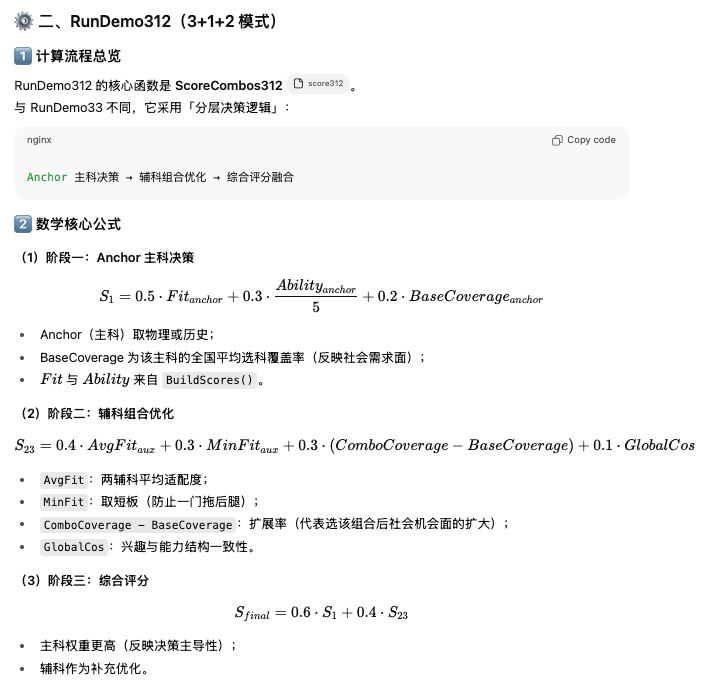
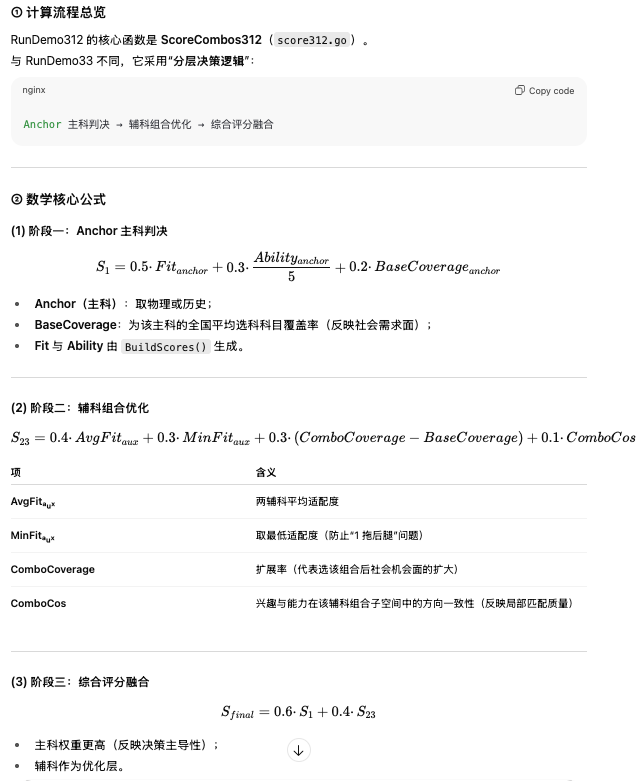
refactor algorithm

diff --git a/server/test2/score312.go b/server/test2/score312.go
@@ -40,7 +40,7 @@ AnchorBaseCoverage(anchor)：该主干学科的基线覆盖率（来自AnchorBas
 
 则：
 
-S23 = auxW_AvgFit * avgFit + auxW_MinFit * minFit + auxW_Expansion * expansion + auxW_GlobalCos * globalCos
+S23 = auxW_AvgFit * avgFit + auxW_MinFit * minFit + auxW_Expansion * expansion + auxW_CombosCos * globalCos
 
 阶段三：综合评分（Sfinal）
 Sfinal = lambda1 * S1 + lambda2 * S23
@@ -61,7 +61,7 @@ auxW_MinFit（辅科最小兴趣匹配度）：0.3
 
 auxW_Expansion（扩展覆盖率）：0.3
 
-auxW_GlobalCos（全局余弦相似度）：0.1
+auxW_CombosCos（全局余弦相似度）：0.1
 
 阶段三权重：
 
@@ -108,7 +108,7 @@ var (
 
 // 阶段二权重（辅科组合）
 var (
-	auxW_AvgFit, auxW_MinFit, auxW_Expansion, auxW_GlobalCos = 0.4, 0.3, 0.3, 0.1
+	auxW_AvgFit, auxW_MinFit, auxW_Expansion, auxW_CombosCos = 0.45, 0.25, 0.2, 0.2
 )
 
 // 阶段三权重（综合）
@@ -120,15 +120,15 @@ var (
 // =============================
 // 核心算法逻辑
 // =============================
-func ScoreCombos312(scores []SubjectScores, globalCos float64) *Mode312Section {
+func ScoreCombos312(scores []SubjectScores) *Mode312Section {
 	m := map[string]SubjectScores{}
 	for _, s := range scores {
 		m[s.Subject] = s
 	}
 
 	// 生成两个固定方向的 Anchor
-	anchorPHY := buildAnchor312(SubjectPHY, m, globalCos)
-	anchorHIS := buildAnchor312(SubjectHIS, m, globalCos)
+	anchorPHY := buildAnchor312(SubjectPHY, m)
+	anchorHIS := buildAnchor312(SubjectHIS, m)
 
 	return &Mode312Section{
 		AnchorPHY: anchorPHY,
@@ -140,7 +140,7 @@ func ScoreCombos312(scores []SubjectScores, globalCos float64) *Mode312Section {
 // --------------------------------------
 // 按主干方向（PHY/HIS）计算阶段一与阶段二结果
 // --------------------------------------
-func buildAnchor312(anchor string, m map[string]SubjectScores, globalCos float64) AnchorCoreData {
+func buildAnchor312(anchor string, m map[string]SubjectScores) AnchorCoreData {
 	// 阶段一计算
 	fit := m[anchor].Fit
 	abNorm := m[anchor].A / 5.0
@@ -178,13 +178,14 @@ func buildAnchor312(anchor string, m map[string]SubjectScores, globalCos float64
 			minFit := math.Min(m[s2].Fit, m[s3].Fit)
 			expansion := math.Max(0, cov-baseCov)
 
+			comboCos := calcComboCos([]SubjectScores{m[anchor], m[s2], m[s3]})
 			// 阶段二计算
 			termAvgFit := auxW_AvgFit * avgFit
 			termMinFit := auxW_MinFit * minFit
 			termExpansion := auxW_Expansion * expansion
-			termGlobalCos := auxW_GlobalCos * globalCos
+			termCombosCos := auxW_CombosCos * comboCos
 
-			S23 := termAvgFit + termMinFit + termExpansion + termGlobalCos
+			S23 := termAvgFit + termMinFit + termExpansion + termCombosCos
 
 			// 阶段三计算
 			SFinal := lambda1*S1 + lambda2*S23
@@ -198,10 +199,11 @@ func buildAnchor312(anchor string, m map[string]SubjectScores, globalCos float64
 				AvgFit:        round3(avgFit),
 				MinFit:        round3(minFit),
 				Expansion:     round3(expansion),
+				ComboCos:      round3(comboCos),
 				TermAvgFit:    round3(termAvgFit),
 				TermMinFit:    round3(termMinFit),
 				TermExpansion: round3(termExpansion),
-				TermGlobalCos: round3(termGlobalCos),
+				TermCombosCos: round3(termCombosCos),
 				S23:           round3(S23),
 			})
 		}
@@ -226,18 +228,18 @@ func buildAnchor312(anchor string, m map[string]SubjectScores, globalCos float64
 
 func RunDemo312(riasecAnswers []RIASECAnswer, ascAnswers []ASCAnswer, alpha, beta, gamma float64) *ParamForAIPrompt {
 	if alpha == 0 && beta == 0 && gamma == 0 {
-		alpha, beta, gamma = 0.4, 0.4, 0.2
+		alpha, beta, gamma = 0.5, 0.2, 0.3
 	}
 
 	scores, result := BuildScores(riasecAnswers, ascAnswers, Wfinal, DimCalib, alpha, beta, gamma)
 
 	var paramForPrompt ParamForAIPrompt
 	paramForPrompt.Common = result.Common
-	paramForPrompt.Mode312 = ScoreCombos312(scores, result.Common.GlobalCosine)
+	paramForPrompt.Mode312 = ScoreCombos312(scores)
 
 	content, _ := json.MarshalIndent(&paramForPrompt, "", "  ")
 	ts := time.Now().Format("20060102_150405")
-	filename := fmt.Sprintf("report_param_%s_%s.json", "3+1+2", ts) // 增加了模块名
+	filename := fmt.Sprintf("report_param_%s_%s.json", "3+1+2", ts)
 	_ = os.WriteFile(filename, content, 0644)
 
 	fmt.Printf("Radar Visualization:\n%+v\n", result.Radar)

diff --git a/server/test2/score33.go b/server/test2/score33.go
@@ -61,9 +61,9 @@ type Weights struct{ W1, W2, W3, W4, W5 float64 }
 
 // ScoreCombos33
 // ------------------------
-// 修正版：组合打分逻辑
+// 组合打分逻辑
 // ------------------------
-func ScoreCombos33(scores []SubjectScores, globalCos float64, w Weights) *Mode33Section {
+func ScoreCombos33(scores []SubjectScores, w Weights) *Mode33Section {
 	m := map[string]SubjectScores{}
 	for _, s := range scores {
 		m[s.Subject] = s
@@ -78,24 +78,30 @@ func ScoreCombos33(scores []SubjectScores, globalCos float64, w Weights) *Mode33
 		}
 		s1, s2, s3 := subjs[0], subjs[1], subjs[2]
 
-		// 计算平均匹配度
-		avgFit := (m[s1].Fit + m[s2].Fit + m[s3].Fit) / 3.0
+		// 获取三科的 SubjectScores
+		sc1, sc2, sc3 := m[s1], m[s2], m[s3]
+
+		// 平均匹配度
+		avgFit := (sc1.Fit + sc2.Fit + sc3.Fit) / 3.0
 
 		// 计算最低能力
 		minA := math.Min(m[s1].A, math.Min(m[s2].A, m[s3].A))
 
 		// 稀有性值
-		rarity := RarityValue(comboKey) // 从组合映射表获取 (0,5,12)
+		rarity := RarityValue(comboKey)
 
 		// 风险惩罚
 		risk := 0.0
-		if minA < 3 {
-			risk = 0.2
+		if minA < 2.8 {
+			risk = 0.45
 		}
+
+		comboCos := calcComboCos([]SubjectScores{sc1, sc2, sc3})
+
 		// 计算组合最终分
 		score := w.W1*avgFit -
 			w.W2*rarity/10.0 +
-			w.W3*globalCos +
+			w.W3*comboCos +
 			w.W4*minA/5.0 -
 			w.W5*risk
 
@@ -105,6 +111,7 @@ func ScoreCombos33(scores []SubjectScores, globalCos float64, w Weights) *Mode33
 			MinAbility:  round3(minA),
 			Rarity:      round3(rarity), // 虽是离散值，保持统一风格
 			RiskPenalty: round3(risk),
+			ComboCosine: round3(comboCos),
 			Score:       round3(score),
 		})
 	}
@@ -150,7 +157,7 @@ func RarityValue(combo string) float64 {
 
 func RunDemo33(riasecAnswers []RIASECAnswer, ascAnswers []ASCAnswer, alpha, beta, gamma float64) *ParamForAIPrompt {
 	if alpha == 0 && beta == 0 && gamma == 0 {
-		alpha, beta, gamma = 0.4, 0.4, 0.2
+		alpha, beta, gamma = 0.5, 0.2, 0.3
 	}
 
 	var paramPrompt ParamForAIPrompt
@@ -158,8 +165,16 @@ func RunDemo33(riasecAnswers []RIASECAnswer, ascAnswers []ASCAnswer, alpha, beta
 
 	paramPrompt.Common = result.Common
 
-	ws := Weights{W1: 0.5, W2: 0.3, W3: 0.1, W4: 0.1, W5: 0.1}
-	paramPrompt.Mode33 = ScoreCombos33(scores, result.Common.GlobalCosine, ws)
+	// 组合余弦相似度 + 风险约束的科学权重方案
+	ws := Weights{
+		W1: 0.45, // avgFit: 主导
+		W2: 0.20, // rarity: 竞争性平衡
+		W3: 0.25, // comboCos: 组合方向一致性
+		W4: 0.15, // minA: 能力底线保障
+		W5: 0.20, // riskPenalty: 触发式惩罚（0.04 扣分）
+	}
+
+	paramPrompt.Mode33 = ScoreCombos33(scores, ws)
 
 	content, _ := json.MarshalIndent(&paramPrompt, "", "  ")
 	ts := time.Now().Format("20060102_150405")

diff --git a/server/test2/scoring.go b/server/test2/scoring.go
@@ -22,12 +22,9 @@ import (
 // ---------------------------------------
 type SubjectScores struct {
 	Subject string  `json:"subject"`
-	I       float64 `json:"interest"`     // 1–5
-	A       float64 `json:"ability"`      // 1–5
-	IPct    float64 `json:"interest_pct"` // 0–100
-	APct    float64 `json:"ability_pct"`  // 0–100
-	ZGap    float64 `json:"zgap"`         // z(A) - z(I)
-	Fit     float64 `json:"fit"`          // 融合评分（越高越推荐）
+	I       float64 `json:"interest"` // 1–5
+	A       float64 `json:"ability"`  // 1–5
+	Fit     float64 `json:"fit"`      // 融合评分（越高越推荐）
 }
 
 // DimCalib
@@ -256,8 +253,6 @@ func BuildScores(
 	// ---- 7. 每科 Fit ----
 	out := make([]SubjectScores, 0, len(Subjects))
 	for _, s := range Subjects {
-		ipct := toPct(I[s])
-		apct := toPct(A[s])
 		zgap := AZ[s] - IZ[s]
 		share := safeDiv(A[s], sumA)
 		fit := alpha*zgap + beta*cos + gamma*share
@@ -266,9 +261,6 @@ func BuildScores(
 			Subject: s,
 			I:       I[s],
 			A:       A[s],
-			IPct:    round3(ipct),
-			APct:    round3(apct),
-			ZGap:    zgap,
 			Fit:     fit,
 		})
 	}
@@ -316,3 +308,14 @@ func findFit(arr []SubjectScores, subj string) float64 {
 }
 
 func round3(x float64) float64 { return math.Round(x*1000) / 1000 }
+
+func calcComboCos(aux []SubjectScores) float64 {
+	a := make(map[string]float64)
+	b := make(map[string]float64)
+	for _, sc := range aux {
+		a[sc.Subject] = sc.I
+		b[sc.Subject] = sc.A
+	}
+
+	return cosineSim(a, b)
+}

diff --git a/server/test2/score_log.go b/server/test2/score_log.go
@@ -72,12 +72,13 @@ type ComboCoreData struct {
 	AvgFit    float64 `json:"avg_fit"`   // 两辅科平均匹配度
 	MinFit    float64 `json:"min_fit"`   // 两辅科最小匹配度
 	Expansion float64 `json:"expansion"` // 净扩展度（>=0）
+	ComboCos  float64 `json:"combo_cos"`
 
 	// —— 已含权重的“分项贡献” ——（安全可解释，防公式反推）
 	TermAvgFit    float64 `json:"term_avg_fit"`
 	TermMinFit    float64 `json:"term_min_fit"`
 	TermExpansion float64 `json:"term_expansion"`
-	TermGlobalCos float64 `json:"term_global_cos"`
+	TermCombosCos float64 `json:"term_combos_cos"`
 
 	// —— 阶段结果 ——
 	S23 float64 `json:"s23"` // 阶段二得分（组合层）
@@ -99,6 +100,7 @@ type Combo33CoreData struct {
 	Rarity      float64   `json:"rarity"`       // 稀有性（原始值 0/5/12）
 	RiskPenalty float64   `json:"risk_penalty"` // 风险惩罚（原始值 0 或 0.2）
 	Score       float64   `json:"score"`        // 综合推荐得分（最终输出）
+	ComboCosine float64   `json:"combo_cosine"`
 }
 
 type RadarData struct {

diff --git a/server/test2/main.go b/server/test2/main.go
@@ -65,7 +65,8 @@ func main() {
 	case "demo":
 		// 1) 选择一个组合与能力场景
 		combo := ComboPHY_CHE_BIO
-		category := "aligned" // 或 "mismatch"
+		//category := "aligned" // 或 "mismatch"
+		category := "mismatch" // 或 "mismatch"
 
 		// 2) 拿到样本答案
 		riasec := AllRIASECCombos[combo]
